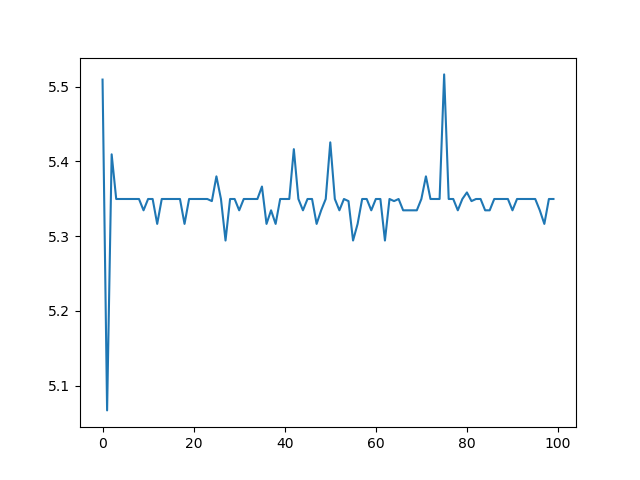
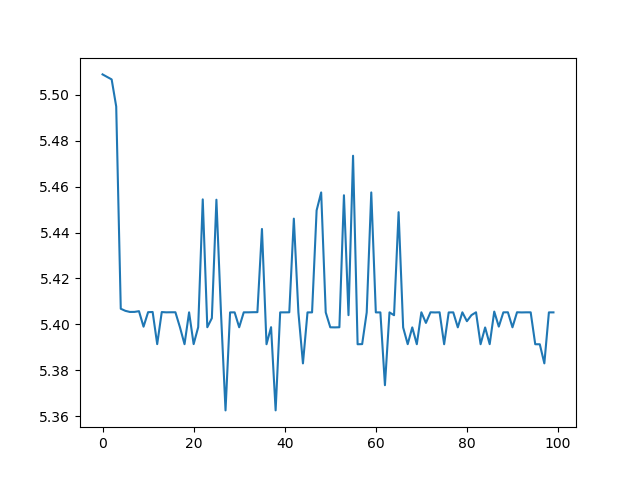
changed Optimizer

diff --git a/model.py b/model.py
@@ -10,27 +10,24 @@ class Model(object):
         self.image_size=image_size
         self.num_characters=num_characters
 
-        #variables
-        self.weights=tf.Variable(np.zeros(shape=(self.image_size*self.image_size,num_characters)),dtype=tf.float32)
-        self.biases=tf.Variable(np.zeros(shape=[num_characters]),dtype=tf.float32)
-
+        
         # placehoders
         self.image=tf.placeholder(dtype=tf.float32,shape=[None,self.image_size*self.image_size],name="self.image_input")
         self.label=tf.placeholder(dtype=tf.float32,shape=[None,num_characters])
-
-        #input layer
-        input_layer=self.image
-
-        #a single output layer y=w*x+b
-        logits=tf.nn.softmax(tf.matmul(input_layer,self.weights)+self.biases)
-
+        
+        #layer1
+        layer1=tf.layers.dense(self.image,units=1024,activation=tf.nn.relu)
+        
+        layer2=tf.layers.dense(layer1,units=num_characters,activation=tf.nn.relu)
+        
+        logits=tf.nn.softmax(layer2)
 
         self.loss=tf.reduce_mean(tf.nn.softmax_cross_entropy_with_logits(labels=self.label,logits=logits))
 
         self.accuracy=tf.reduce_mean(tf.cast(tf.equal(tf.argmax(self.label,1),tf.argmax(logits,1)),tf.float32))
         self.learning_rate=0.5
 
-        self.optimizer=tf.train.AdamOptimizer(self.learning_rate).minimize(self.loss)
+        self.optimizer=tf.train.GradientDescentOptimizer(self.learning_rate).minimize(self.loss)
         self.sess=tf.InteractiveSession()
         tf.global_variables_initializer().run()
         tf.local_variables_initializer().run()
